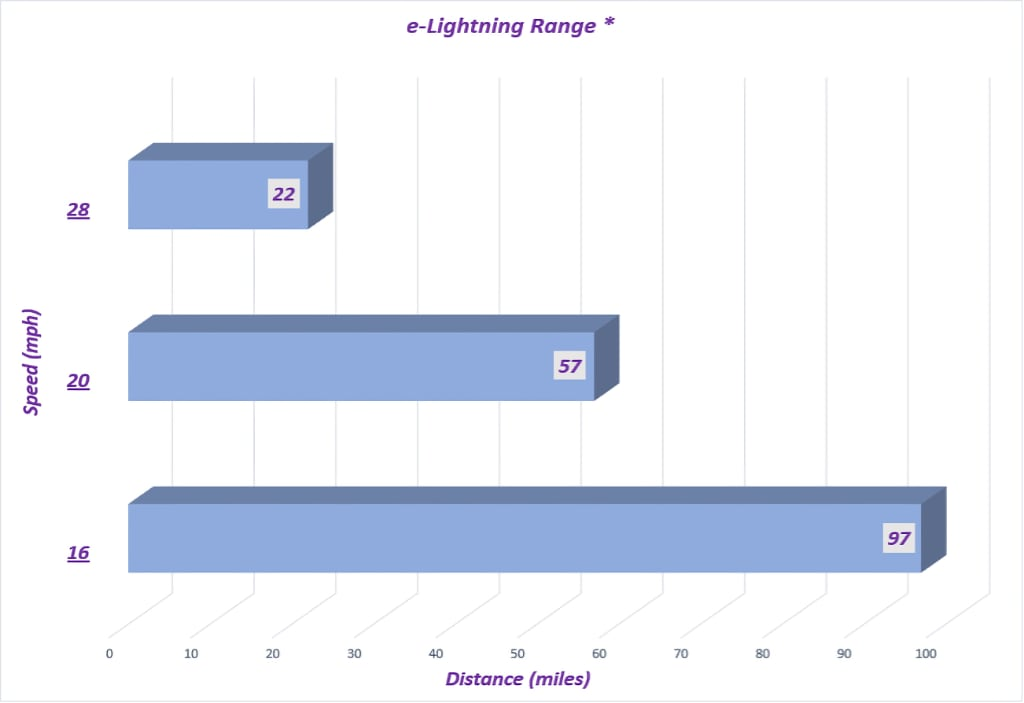
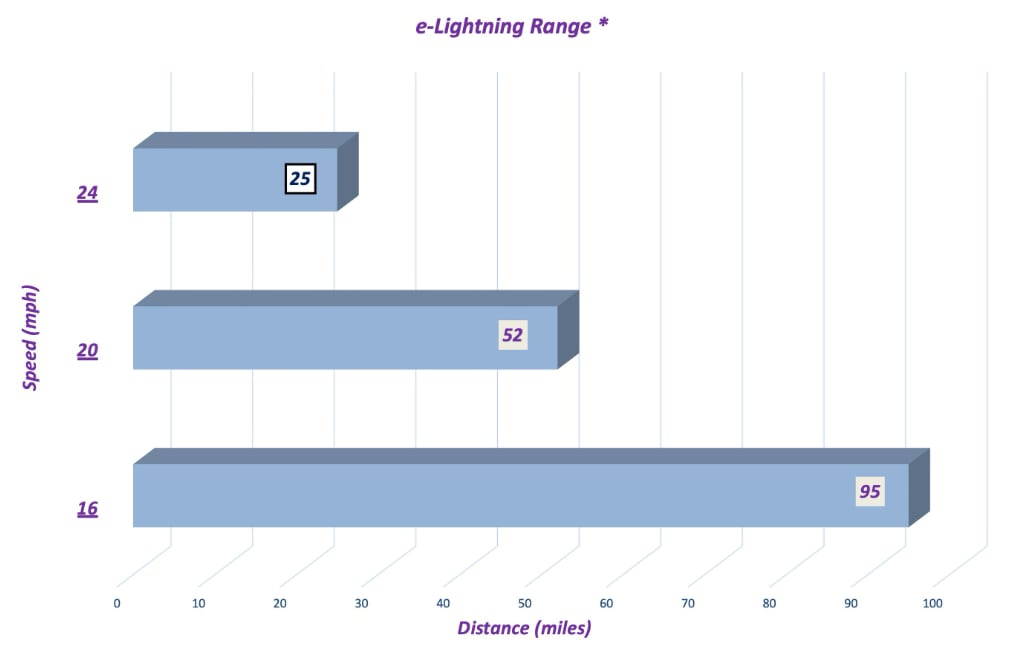
update e-Lightning specs

diff --git a/e-lightning/index.html b/e-lightning/index.html
@@ -90,14 +90,14 @@
 			</figure>
 			<ul class="zot">
 				<li>Range: 20 to 90 miles, depending on speed, hills, and pedal assist.</li>
-				<li>Top speed: Up to 28 mph where allowed by law.</li>
+				<li>Top speed: 20 to 28 mph, varies with battery charge level.</li>
 				<li>Torque-Sensing Pedal-Assist &amp; Throttle On Demand.</li>
 				<li>Programmable LCD dashboard.</li>
 				<li>Climbing up to 20% grade</li>
 				<li>Total weight only 48 lbs.</li>
 			</ul>
 			<figure>
-				<img src="/_assets/img/e-lightning/e-lightning-range.jpg" width="1024" height="703" alt="e-Lightning range" class="img-thumbnail">
+				<img src="/_assets/img/e-lightning/e-lightning-range.jpg" width="1024" height="646" alt="e-Lightning range" class="img-thumbnail">
 				<figcaption>
 					*Flat ground, minimal stops, 175 pound rider
 				</figcaption>
@@ -259,9 +259,11 @@
 					Single ring crankset with chain guard.
 				</figcaption>
 			</figure>
+<!--
 			<figure>
 				<img src="/_assets/img/e-lightning/e-lightning-right.jpg" width="1024" height="701" alt="e-Lightning" class="img-thumbnail">
 			</figure>
+ -->
 <!-- #bbinclude "sidebar.incl" -->
 		</article>
 		<div class="col-sm-2 col-sm-pull-10">
